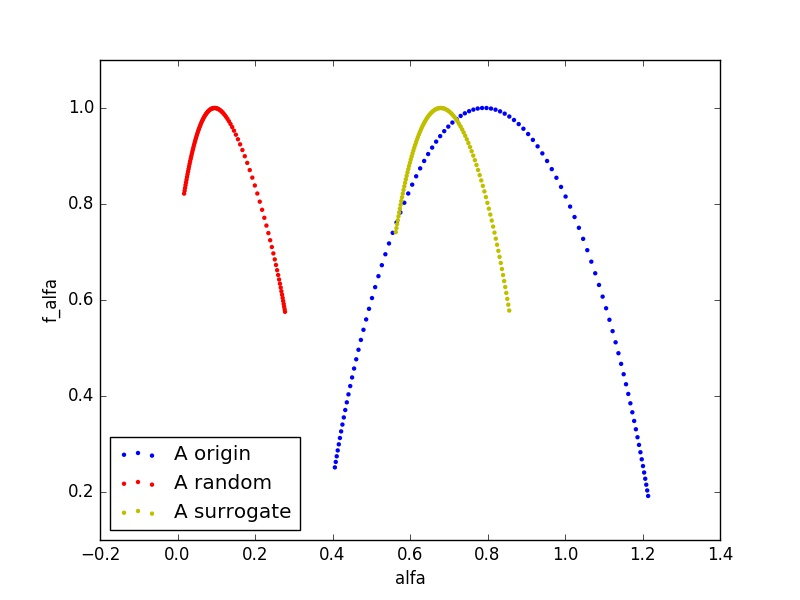
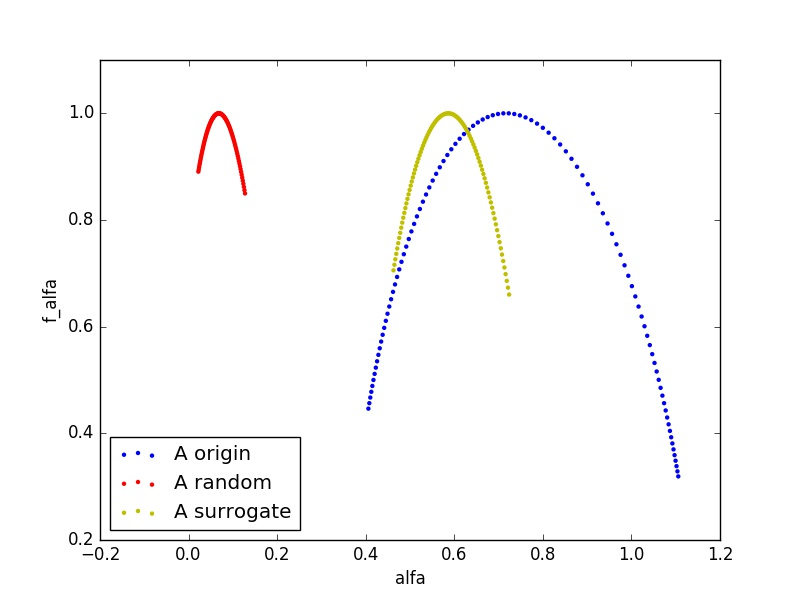
fse result

diff --git a/method/DCCA.py b/method/DCCA.py
@@ -52,7 +52,7 @@ class MF_DCCA(object):
     def generate(self):
         base = 2
         #step_list = [int(self.length/base**x) for x in range(2, int(log(self.length)/log(base))+1) if base**x <= self.length/20]
-        step_list = [k for k in range(10, int(self.length/4), 5)]
+        step_list = [k for k in range(15, int(self.length/4), 1)]
         #partition = lambda list_t, start_range, end_range, step_t: [list_t[i:i+step_t] for i in range(0,end_range+1,step_t)] + [list_t[i-step_t:i] for i in range(self.length,start_range-1,-step_t)]
         corr_list = []
         for step_t in step_list:

diff --git a/method/DPXA.py b/method/DPXA.py
@@ -61,7 +61,7 @@ class MF_DPXA(object):
     def generate(self):
         base = 2
         #step_list = [int(self.length/base**x) for x in range(2, int(log(self.length)/log(base))+1) if base**x <= self.length/20]
-        step_list = [k for k in range(10, int(self.length/4), 5)]
+        step_list = [k for k in range(15, int(self.length/4), 1)]
         #partition = lambda list_t, start_range, end_range, step_t: [list_t[i:i+step_t] for i in range(0,end_range+1,step_t)] + [list_t[i-step_t:i] for i in range(self.length,start_range-1,-step_t)]
         corr_list = []
         for step_t in step_list:

diff --git a/method/surrogate.py b/method/surrogate.py
@@ -94,8 +94,8 @@ def FSE_init(filename):
     df_random = reader.iloc[np.random.permutation(len(reader))]
     key_list = [key for key in reader]
     list_t = [reader[key].values for key in reader]
-    #tmp_surr = AAFT_surrogates(np.array(list_t))
-    tmp_surr = refined_AAFT_surrogates(np.array(list_t), 20)
+    tmp_surr = AAFT_surrogates(np.array(list_t))
+    #tmp_surr = refined_AAFT_surrogates(np.array(list_t), 10)
     surrogated = {}
     for i in range(len(key_list)): surrogated[key_list[i]] = tmp_surr[i]
     df_surr = pd.DataFrame(surrogated)

diff --git a/finite.py b/finite.py
@@ -31,7 +31,7 @@ def estimate_fse(filename, class_t, folder):
     print('random', max(method_dcca_rand.alfa)-min(method_dcca_rand.alfa))
     print('surrogate', max(method_dcca_surr.alfa)-min(method_dcca_surr.alfa))
 
-current_dir = 'C:\\Users\\xueni\\Documents\\GitHub\\time-series-research\\data'
+current_dir = 'data'
 for root, dirs, files in os.walk(current_dir):
     for file in files:
         estimate_fse(file, MF_DCCA, 'fse_dcca\\')
